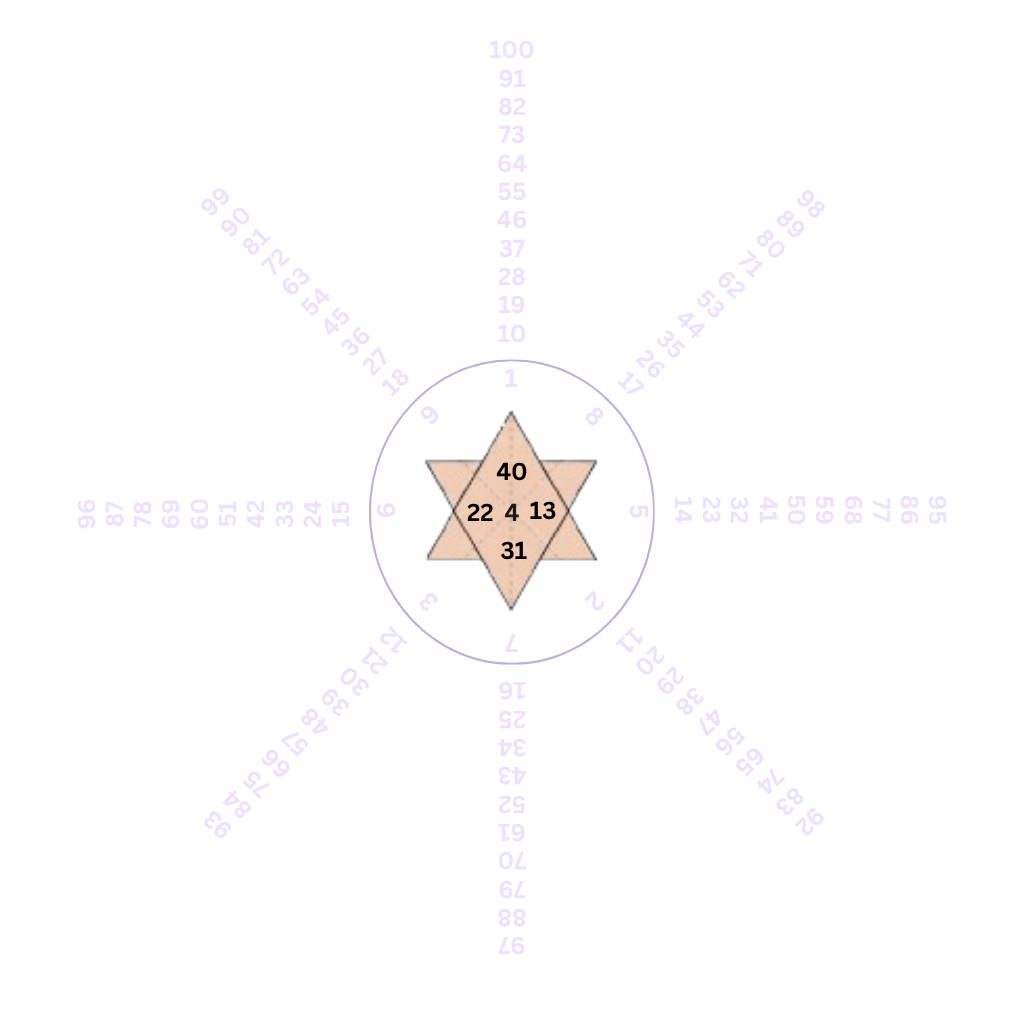
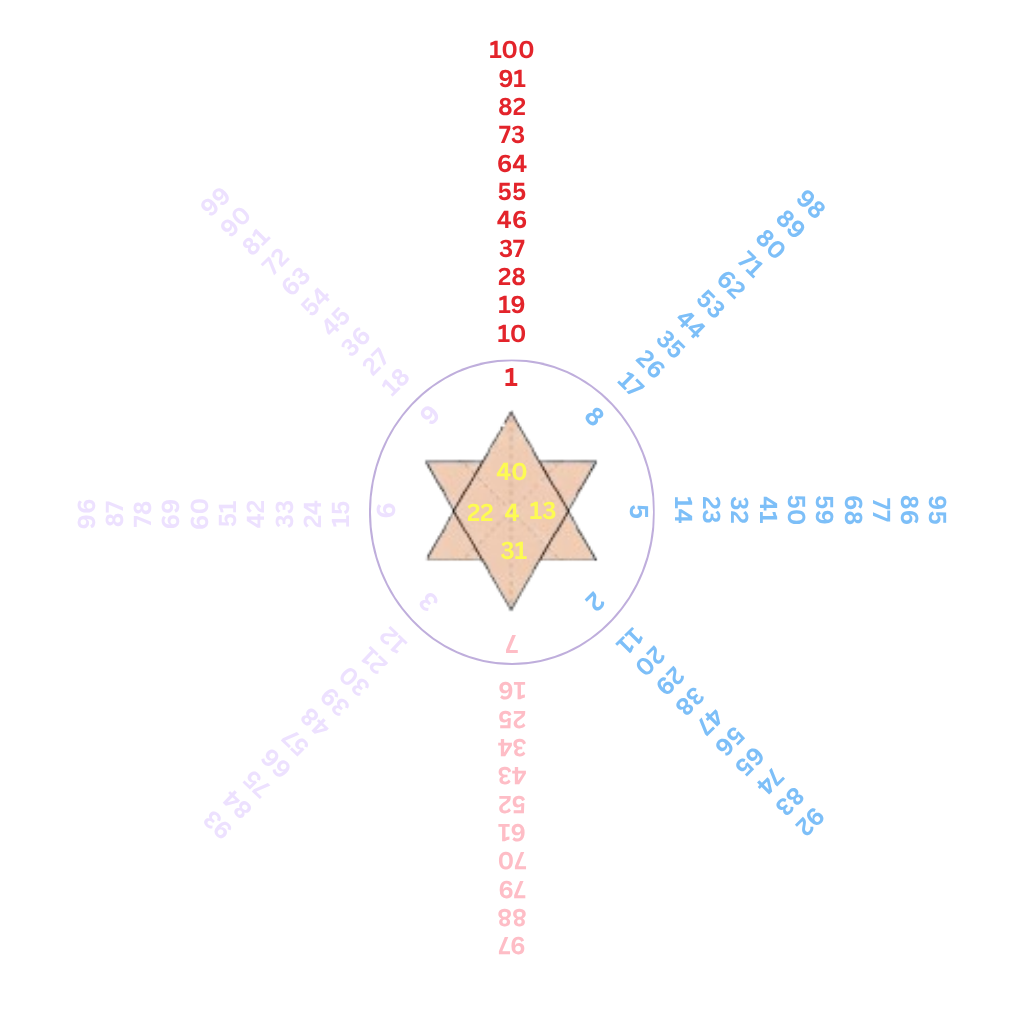
min in word graf color change

diff --git a/MainApp/chartUtility.py b/MainApp/chartUtility.py
@@ -365,8 +365,14 @@ def get_all_aspects(chart):
 
 
     return result
-    
 
+
+def degMin(deg):
+
+    intDeg = int(deg)
+    min = int((deg - intDeg) * 60)
+
+    return str(intDeg) + '° ' + str(min) + "'"
 
 def set_cell_border(cell):
     tc = cell._tc
@@ -464,7 +470,7 @@ def create_planet_table(doc, asc_list):
         p4.paragraph_format.space_before = 0
         p4.paragraph_format.space_after = 0
 
-        run4 = p4.add_run(str(round(item.get("position", 0), 2)) + '°') 
+        run4 = p4.add_run(degMin(round(item.get("position", 0), 2)))
         run4.font.name = 'Poppins'
 
 
@@ -574,7 +580,7 @@ def creat_stars_table(doc, star_list):
         p4.paragraph_format.space_before = 0
         p4.paragraph_format.space_after = 0
 
-        run4 = p4.add_run(str(round(item.get("position", 0), 2)) + '°') 
+        run4 = p4.add_run(degMin(round(item.get("position", 0), 2))) 
         run4.font.name = 'Poppins'
 
 
@@ -674,7 +680,7 @@ def creat_asc_table(doc, asc_list):
         p4.paragraph_format.space_before = 0
         p4.paragraph_format.space_after = 0
 
-        run4 = p4.add_run(str(round(item.get("position", 0), 2)) + '°') 
+        run4 = p4.add_run(degMin(round(item.get("position", 0), 2))) 
         run4.font.name = 'Poppins'
 
 
@@ -773,7 +779,7 @@ def creat_aspects_table(doc, aspects_list):
         p4.paragraph_format.space_before = 0
         p4.paragraph_format.space_after = 0
 
-        run4 = p4.add_run(str(round(item.get("orb", 0),2)) + '°') 
+        run4 = p4.add_run(degMin(round(item.get("orb", 0),2))) 
         run4.font.name = 'Poppins'
 
 

diff --git a/MainApp/views.py b/MainApp/views.py
@@ -110,9 +110,11 @@ def getReport(request):
             index += 1
     
     creat_asc_table(doc, fourAnglesData)
-    creat_aspects_table(doc, aspectsData)
-    creat_stars_table(doc, starsData)
     create_planet_table(doc, planetsData)
+    creat_stars_table(doc, starsData)
+    creat_aspects_table(doc, aspectsData)
+    
+    
             
     doc.save(buffer)
     buffer.seek(0)
